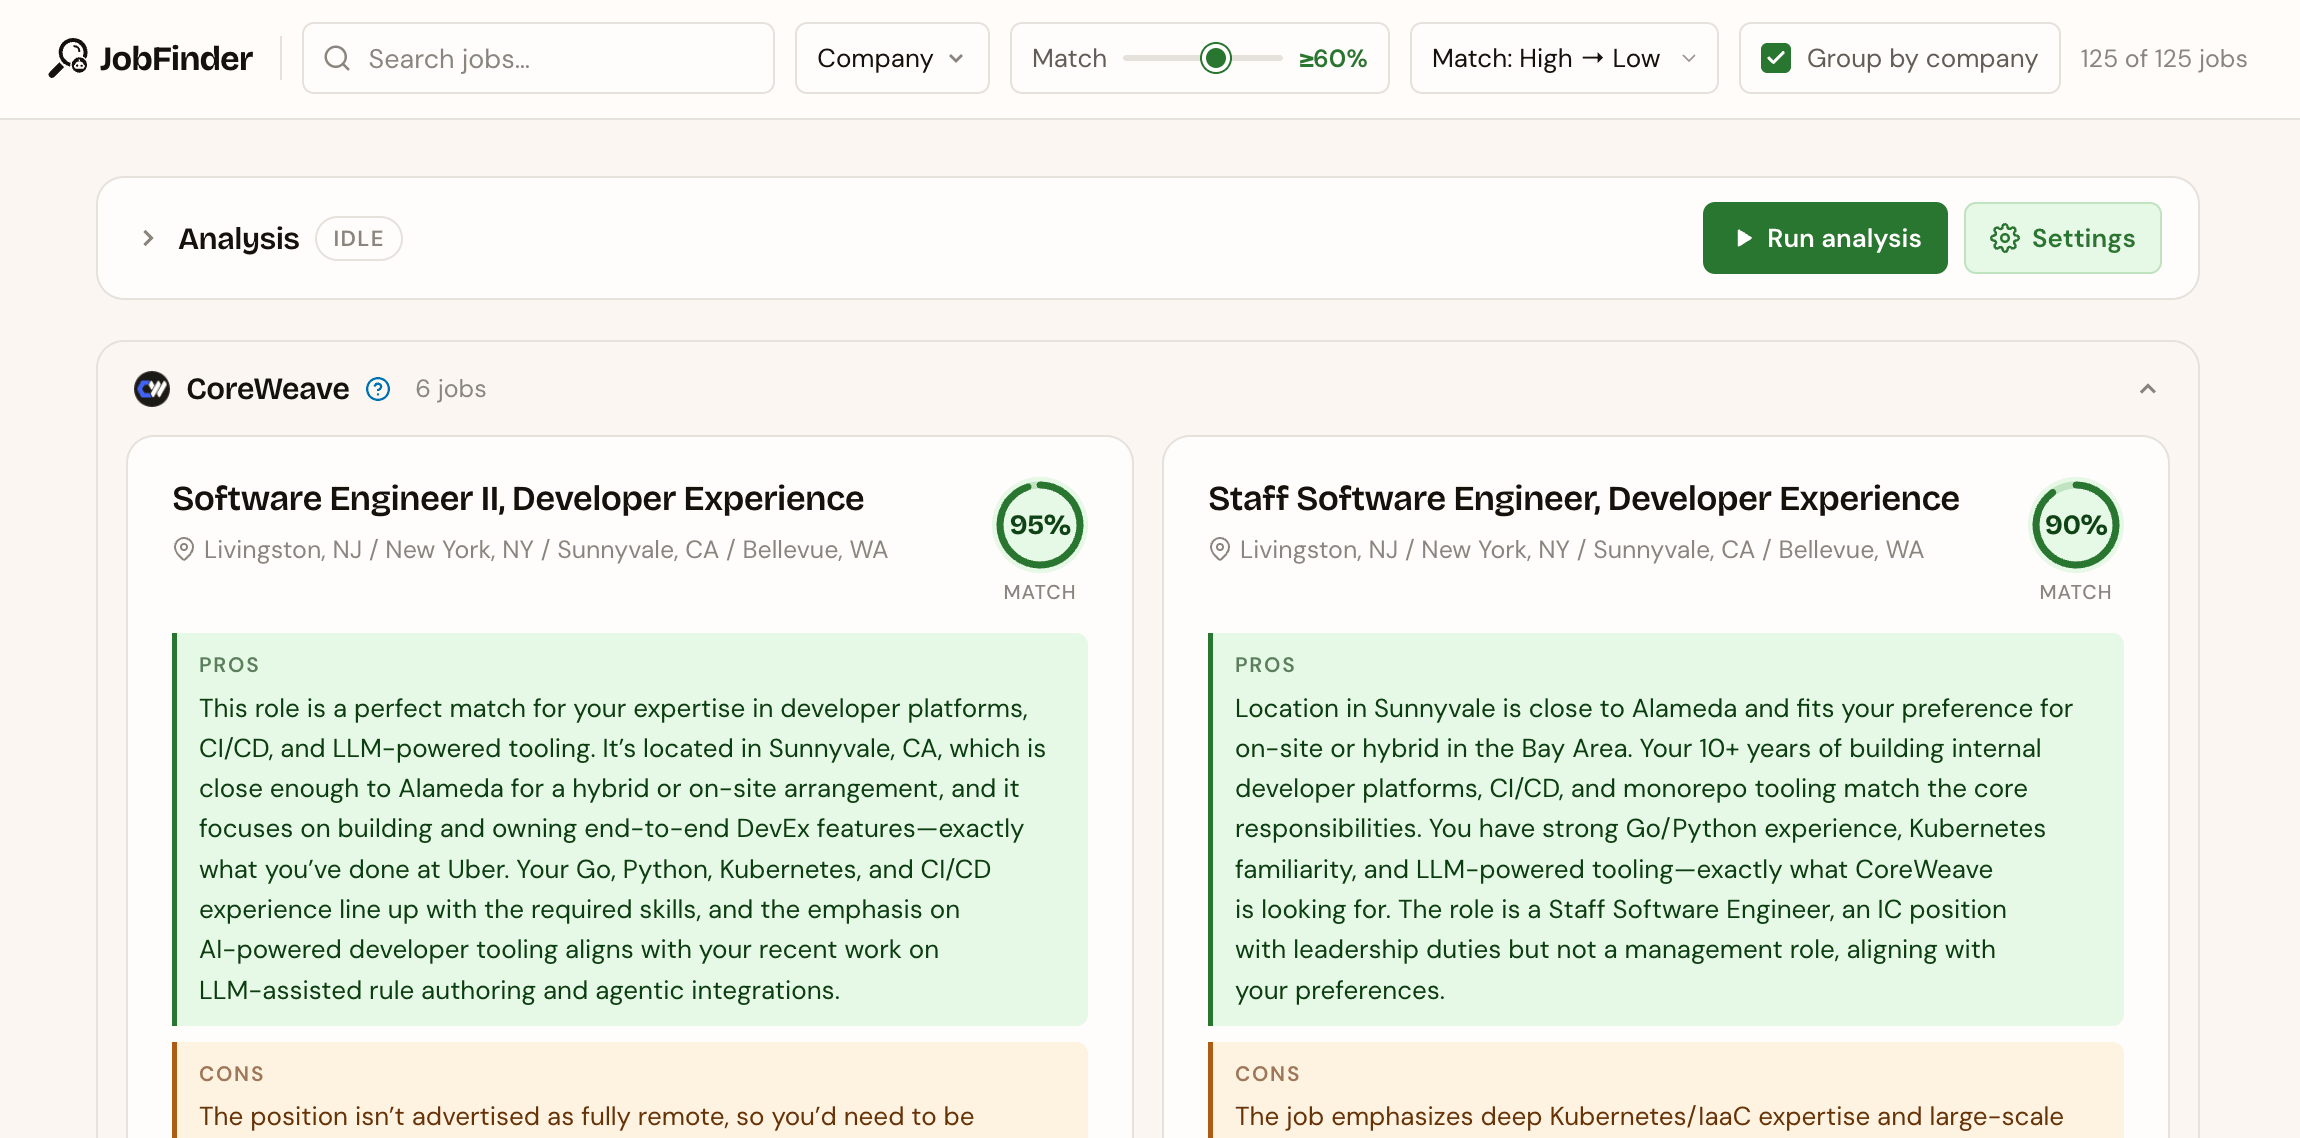
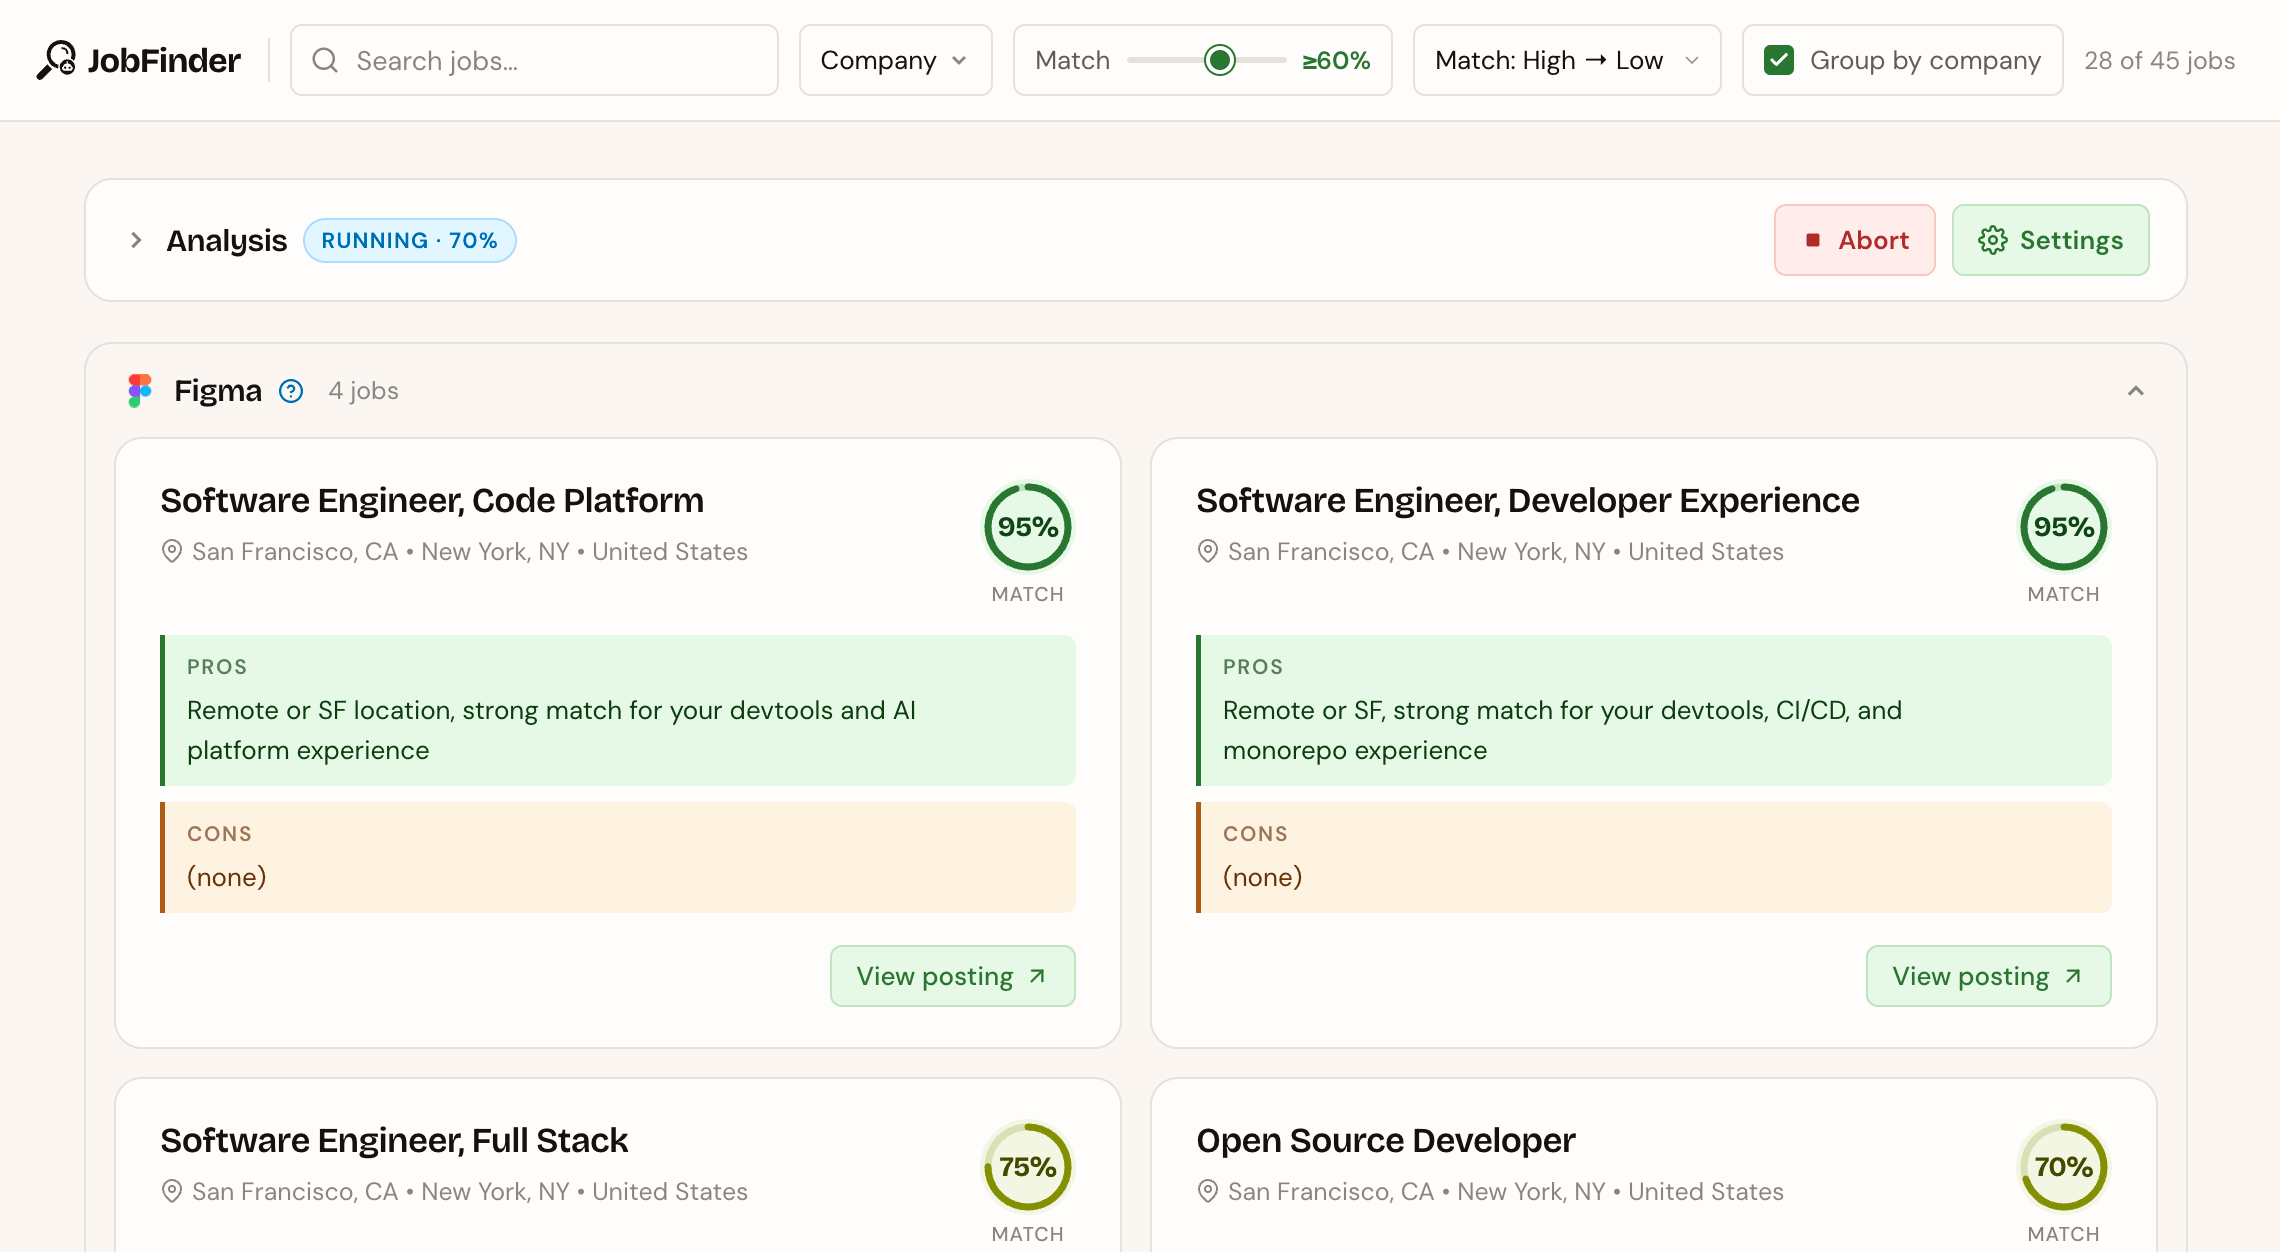
more improvements to model output reliability

diff --git a/src/analysis/Analyzer.ts b/src/analysis/Analyzer.ts
@@ -7,6 +7,12 @@ import { type ListedJob } from './scraping/Scraper.ts';
 import { type AnalyzerSettings, type UserInfo } from './types.ts';
 
 export interface JobFitResponse {
+  /** the stated user preference this job violates, or null (optional: older analyses predate it) */
+  preferenceConflict?: string | null;
+  /** optional: older analyses predate it */
+  roleMatch?: 'strong' | 'good' | 'partial' | 'poor';
+  /** optional: older analyses predate it */
+  locationFit?: 'works' | 'impractical';
   fitScore: number;
   pros: string;
   cons: string;
@@ -27,13 +33,33 @@ export class Analyzer {
       Your job is to determine whether a given job posting is a good fit for the user, based on their location, resume, and job preferences listed below.
 
       ## Output format
-      You should output using JSON format, using ONLY this schema:
+      You should output using JSON format, using ONLY this schema, with the fields in EXACTLY this order (each field builds on the ones before it):
       \`\`\`typescript
       interface JobFitResponse {
-        // number between 0-1; e.g. 0, 0.1, ..., 0.9, 1.0
-        fitScore: number;
+        // Does this posting conflict with any of the user's explicitly stated job
+        // preferences (e.g. a role type or domain they said they're not a fit for,
+        // management when they want IC roles)? Check EVERY stated preference against
+        // the posting's PRIMARY emphasis. Quote/paraphrase the single violated
+        // preference here, or null if none. Only count a conflict the user EXPLICITLY
+        // stated. NOTE: mentoring, code review, or technical-leadership expectations
+        // are a normal part of senior IC roles, NOT management; only treat a role as
+        // management if its primary function is managing people.
+        preferenceConflict: string | null;
+        // How well the posting's PRIMARY emphasis matches the user's past experience
+        // and interests: "strong" | "good" | "partial" | "poor". Be strict: if the
+        // posting's PRIMARY emphasis is work the user is weak in or not seeking,
+        // that's "partial" at best, even when many of their skills overlap. But a
+        // role that IS the kind of work they're seeking, with a skill gap in one
+        // required area, is "good", not "partial".
+        roleMatch: "strong" | "good" | "partial" | "poor";
+        // "works": remote, or within the user's stated on-site/commute preferences
+        // "impractical": requires on-site presence somewhere they can't regularly commute
+        locationFit: "works" | "impractical";
         pros: string;
         cons: string;
+        // number between 0-1 (e.g. 0, 0.1, ..., 0.9, 1.0), derived MECHANICALLY from
+        // the three assessments above via the Scoring rules; never contradict them
+        fitScore: number;
       }
       \`\`\`
 
@@ -46,38 +72,38 @@ export class Analyzer {
       Example responses:
 
       \`\`\`json
-      { "fitScore": 1, "pros": "Remote, and a strong match for your infrastructure engineering experience", "cons": "" }
+      { "preferenceConflict": null, "roleMatch": "strong", "locationFit": "works", "pros": "Remote, and a strong match for your infrastructure engineering experience", "cons": "", "fitScore": 1 }
       \`\`\`
 
       \`\`\`json
-      { "fitScore": 0.4, "pros": "Strong match for your platform engineering background", "cons": "Hybrid 3 days/week in Sunnyvale, ~30 mi from you and outside your preferred commute areas" }
+      { "preferenceConflict": null, "roleMatch": "strong", "locationFit": "impractical", "pros": "Strong match for your platform engineering background", "cons": "Hybrid 3 days/week in Sunnyvale, ~30 mi from you and outside your preferred commute areas", "fitScore": 0.4 }
       \`\`\`
 
       \`\`\`json
-      { "fitScore": 0.25, "pros": "Good match for your experience", "cons": "Fully on-site, which you've explicitly stated you aren't interested in" }
+      { "preferenceConflict": "you've said you're not a fit for strictly backend roles", "roleMatch": "partial", "locationFit": "works", "pros": "Remote", "cons": "Primarily a distributed-systems backend role, which you've said isn't your strength", "fitScore": 0.3 }
       \`\`\`
 
       \`\`\`json
-      { "fitScore": 0, "pros": "", "cons": "Based outside of your country" }
+      { "preferenceConflict": null, "roleMatch": "good", "locationFit": "works", "pros": "Remote, and developer-tooling work that matches your interests", "cons": "Heavy emphasis on mobile development, which your resume doesn't demonstrate", "fitScore": 0.65 }
+      \`\`\`
+
+      \`\`\`json
+      { "preferenceConflict": null, "roleMatch": "poor", "locationFit": "impractical", "pros": "", "cons": "Based outside of your country", "fitScore": 0 }
       \`\`\`
 
       ## Location & commute
       The user message may include a pre-computed "Job location" section containing the job's closest listed location to the user and its real straight-line distance from the user's home. Treat that data as ground truth; NEVER guess at proximity or describe a location as "near" the user without checking the distance. That data is derived from the job's listing though, so if the full posting explicitly contradicts it (e.g. states the role can be remote), the posting wins.
 
-      For hybrid/in-office roles, judge the commute using the user's stated location preferences FIRST, and only then the distance: if they name specific acceptable cities/areas for on-site work, interpret that strictly. The job must be in one of those cities or immediately adjacent; a job in any other city is a location mismatch (cap fitScore at 0.5) even when the distance seems small. Do NOT use the distance to override this (e.g. if the user says hybrid near Oakland or San Francisco is okay, a hybrid job in Foster City is still a location mismatch, even at ~14 miles away). Only when their preferences don't name areas, use distance alone: assume anything over ~30 miles is an impractical regular commute. Keep in mind that straight-line distance understates real commutes (bridges, water crossings, traffic).
+      For hybrid/in-office roles, judge \`locationFit\` using the user's stated location preferences FIRST, and only then the distance: if they name specific acceptable cities/areas for on-site work, interpret that strictly. The job must be in one of those cities or immediately adjacent; a job in any other city is "impractical" even when the distance seems small. Do NOT use the distance to override this (e.g. if the user says hybrid near Oakland or San Francisco is okay, a hybrid job in Foster City is still "impractical", even at ~14 miles away). Only when their preferences don't name areas, use distance alone: assume anything over ~30 miles is an impractical regular commute. Keep in mind that straight-line distance understates real commutes (bridges, water crossings, traffic).
 
       When commute affects your assessment, cite the actual city and distance (e.g. "Foster City, ~14 mi from you"); NEVER use vague proximity phrases like "near you" or "near <city>".
 
       ## Scoring
-      The user is trusting you to process their info and the info of a job from their perspective. Imagine you are the user and use that to determine whether you would want to do the job they provide. Be strict; don't try to imagine a scenario where a job might work out. If the location doesn't match the user's location, it's likely not a good fit (unless it's fully remote); unless the user explicitly states they're open to travel or move for a job, ASSUME THEY ARE NOT.
+      The user is trusting you to process their info and the info of a job from their perspective. Imagine you are the user and use that to determine whether you would want to do the job they provide. Be strict; don't try to imagine a scenario where a job might work out. Unless the user explicitly states they're open to travel or move for a job, ASSUME THEY ARE NOT. When a posting spans multiple possible teams or areas (e.g. "team placement occurs after the interview process"), judge \`roleMatch\` by the posting's overall emphasis, not by the single best-case team the user could land on.
 
-      Calibrate fitScore like this:
-      - 0.9-1.0: strong role match AND the location works (remote, or comfortably within the user's commute preferences)
-      - 0.6-0.8: good role match with minor concerns
-      - 0.3-0.5: good role match but impractical location/commute, or workable location but a mediocre role match
-      - 0.0-0.2: a role type the user excluded, or a location that isn't viable at all (e.g. different country, no remote option)
-
-      A role type the user explicitly excluded (e.g. management, or a domain they said they're not a fit for) caps the score at 0.5 no matter how well the skills match; likewise, an impractical location caps the score at 0.5 no matter how good the role match is. Don't rationalize a weak match into a fit: if the posting's primary emphasis is on work the user said they're weak in or not seeking, that's a mediocre role match (0.3-0.5) even when many of their skills overlap. When a posting spans multiple possible teams or areas (e.g. "team placement occurs after the interview process"), judge fit by the posting's overall emphasis, not by the single best-case team the user could land on.
+      Derive \`fitScore\` from the three assessments like this:
+      1. \`preferenceConflict\` is non-null OR \`locationFit\` is "impractical": the score is CAPPED at 0.5 no matter how strong the role match is. Use 0.3-0.5 when \`roleMatch\` is "strong"/"good", and 0.0-0.2 when \`roleMatch\` is "partial"/"poor" or the location isn't viable at all (e.g. different country with no remote option).
+      2. Otherwise, map \`roleMatch\`: "strong" → 0.9-1.0, "good" → 0.6-0.8, "partial" → 0.3-0.5, "poor" → 0.0-0.2.
     `),
     resolveJobLocation: dedent(`
       # Purpose
@@ -255,7 +281,7 @@ export class Analyzer {
         }
         lines.push(
           dedent(`
-            REMINDER: if this job requires any on-site presence and the user's preferences name specific acceptable on-site cities/areas, this job's city must be one of them; if it isn't, that's a location mismatch (fitScore capped at 0.5) REGARDLESS of how small the distance is.
+            REMINDER: if this job requires any on-site presence and the user's preferences name specific acceptable on-site cities/areas, this job's city must be one of them; if it isn't, locationFit is "impractical" (fitScore capped at 0.5) REGARDLESS of how small the distance is.
           `)
         );
       }

diff --git a/src/LLMs/_LLM.ts b/src/LLMs/_LLM.ts
@@ -39,7 +39,35 @@ function statusTitle(status: number): string {
   return 'Request failed';
 }
 
+/**
+ * Provider-agnostic chat parameters. Every provider applies these where its
+ * API supports them; they live here (rather than per-provider) so the
+ * providers behave consistently.
+ */
+export interface ChatParams {
+  /**
+   * Sampling temperature. 0 (deterministic) because every chat in this app is
+   * a classification/scoring/extraction task: any sampling — especially in a
+   * reasoning model's thinking trace — compounds into run-to-run result flips
+   * for the same input. Note: OpenAI reasoning models (the "o" and "gpt-5"
+   * families) reject an explicit temperature, so ChatGPT omits it for those.
+   */
+  temperature: number;
+  /**
+   * Response token cap. The Anthropic API REQUIRES an explicit value, so it
+   * must be defined here; the other providers' APIs default it when omitted
+   * and don't need it sent (for OpenAI reasoning models a cap would even be
+   * harmful: reasoning tokens count against it, risking truncated output).
+   */
+  maxTokens: number;
+}
+
 export abstract class LLM {
+  static defaultParams: ChatParams = {
+    temperature: 0,
+    maxTokens: 4096,
+  };
+
   static async clearConvos() {
     await fs.rm(convosDir, { force: true, recursive: true });
   }

diff --git a/src/LLMs/Claude.ts b/src/LLMs/Claude.ts
@@ -4,9 +4,6 @@ import { LLM, type ChatMessage, type ChatResponse } from './_LLM.ts';
 export class Claude extends LLM {
   protected readonly providerName = 'Claude';
 
-  // FIXME: make `maxTokens` a param of `chat` (need to update Ollama to include that in params; should make a standard `LLM` params interface that all the providers propagate)
-  static defaultMaxTokens = 4096;
-
   private baseUrl = 'https://api.anthropic.com/v1';
   private headers: Record<string, string>;
 
@@ -63,7 +60,9 @@ export class Claude extends LLM {
 
     const body: Record<string, unknown> = {
       model,
-      max_tokens: Claude.defaultMaxTokens,
+      // the messages API requires an explicit max_tokens (see ChatParams)
+      max_tokens: LLM.defaultParams.maxTokens,
+      temperature: LLM.defaultParams.temperature,
       messages: nonSystemMessages,
     };
     if (systemMessages.length > 0) {

diff --git a/src/LLMs/ChatGPT.ts b/src/LLMs/ChatGPT.ts
@@ -48,6 +48,10 @@ export class ChatGPT extends LLM {
     format?: 'boolean' | 'json'
   ): Promise<ChatResponse> {
     const body: Record<string, unknown> = { model, messages };
+    // reasoning models (o*/gpt-5*) reject any temperature but their default
+    if (!/^(o\d|gpt-5)/.test(model)) {
+      body.temperature = LLM.defaultParams.temperature;
+    }
     if (format === 'json') {
       body.response_format = { type: 'json_object' };
     }

diff --git a/src/LLMs/Ollama.ts b/src/LLMs/Ollama.ts
@@ -57,7 +57,7 @@ export class Ollama extends LLM {
   static defaultHost = 'http://localhost:11434';
   /** built-in recommended settings for models */
   static modelPresets: { [model: string]: OllamaParams } = {
-    base: { temperature: 0.1, num_ctx: 2e4 },
+    base: { temperature: LLM.defaultParams.temperature, num_ctx: 2e4 },
     'gemma4:e4b': { top_p: 0.95, top_k: 64 },
   } as const;
 
